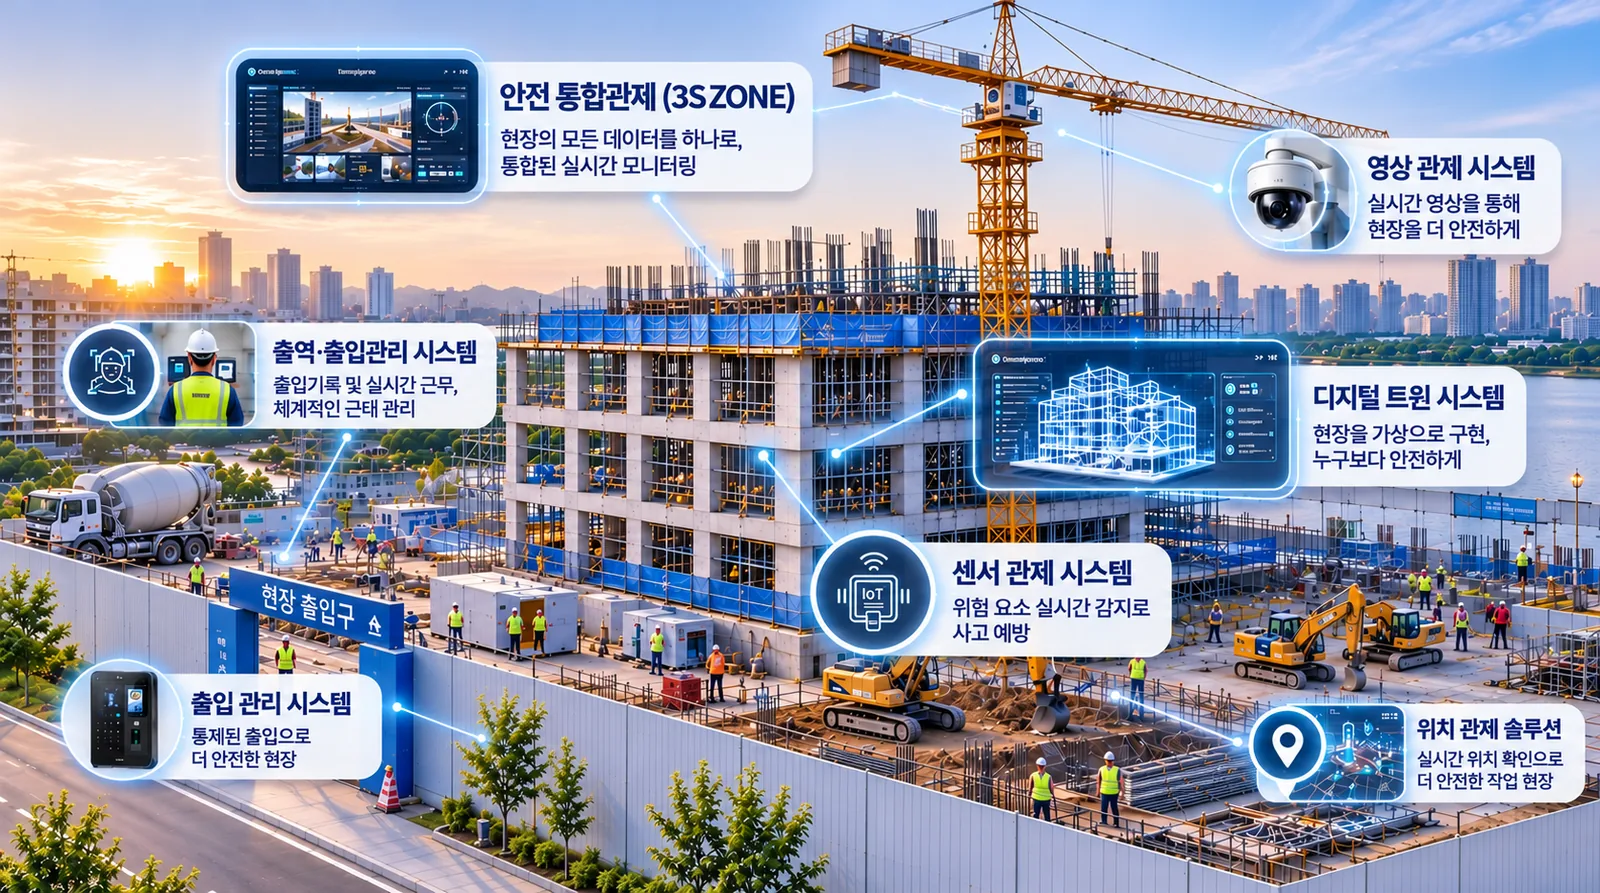
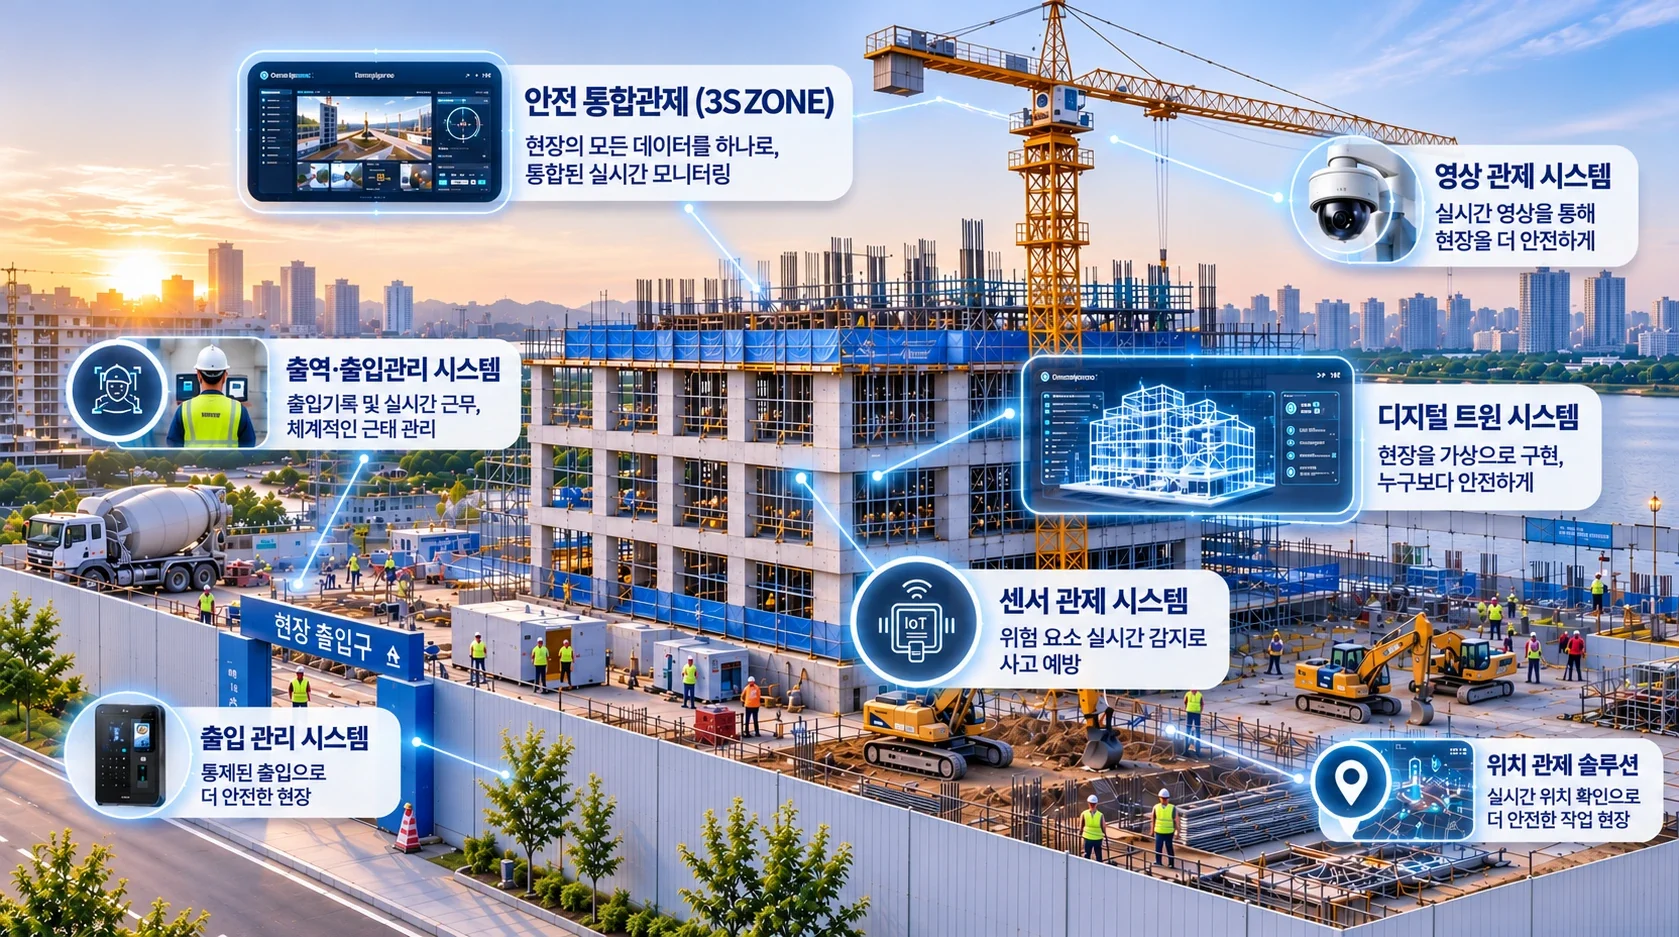
V2 하위 페이지: 소개 사진 크기 통일, 원본 교체, 표·그래프 HTML 재제작
- 소개 사진 폭 최대 660px·16:9 로 전 페이지 통일(3SZONE 은 1.2배)
- 회사소개 현장 그림·하단 배너·다섯 가지 이유 배경을 원본으로 교체
- 3SZONE 소개 제목·본문·도입 효과 제목을 다른 페이지 규칙에 맞춤
- 건설공정 차트·AI 이벤트 감지 항목·AI 위험 이름을 HTML 로 다시 제작
- 해상도 낮은 사진 3장 '고화질필요', 사진 없는 카드 '사진필요' 표시

diff --git a/css/sub-v2.css b/css/sub-v2.css
@@ -4,10 +4,11 @@
 .sv img{display:block;max-width:100%}
 
 /* 소개: 왼쪽 글, 오른쪽 사진 */
-.sv-intro{display:grid;grid-template-columns:minmax(0,1fr) minmax(0,1.25fr);gap:64px;align-items:center}
+/* 소개 사진 크기는 모든 하위 페이지(3SZONE V2 포함) 같게: 폭 최대 660px, 16:9 */
+.sv-intro{display:grid;grid-template-columns:minmax(0,1fr) min(660px,48%);gap:64px;align-items:center}
 .sv-intro h3{font-size:clamp(24px,2vw,30px);line-height:1.4;letter-spacing:-.025em;margin-bottom:22px}
 .sv-intro p{font-size:16px;line-height:1.85;color:#333}
-.sv-intro img{width:100%;border-radius:12px}
+.sv-intro>img,.sv-intro>figure{width:100%;aspect-ratio:16/9;border-radius:12px;object-fit:cover;margin:0}
 
 /* 소제목: 아래 파란 줄 */
 .sv-sec{margin-top:110px}
@@ -29,7 +30,11 @@
 .sv-prod li{width:calc((100% - 60px) / 4);padding:10px 10px 24px;border:1px solid #e6e8ec;border-radius:16px;background:#fff;
   box-shadow:0 6px 18px rgba(17,17,17,.04)}
 .sv-ph{aspect-ratio:187/169;border-radius:14px;overflow:hidden;background:#e9edf2}
+.sv-ph{position:relative;display:grid;place-items:center}
 .sv-ph img{width:100%;height:100%;object-fit:cover}
+/* 사진이 없는 칸 / 화질이 낮은 사진 표시 */
+.sv-ph:empty::after,.sv-ph.lq::after{content:'사진필요';font-size:15px;font-weight:800;letter-spacing:-.01em;color:#8a94a6}
+.sv-ph.lq::after{content:'고화질필요';position:absolute;inset:0;display:grid;place-items:center;color:#fff;background:rgba(18,25,42,.62)}
 .sv-prod li>div{padding:18px 12px 0}
 .sv-prod small{display:block;font-size:12.5px;font-weight:800;color:var(--blue);margin-bottom:4px}
 .sv-prod b{display:block;font-size:18px;font-weight:800;letter-spacing:-.02em}
@@ -93,12 +98,46 @@
 .ai-risk h3{font-size:clamp(24px,2.2vw,32px);letter-spacing:-.025em;margin-bottom:44px}
 .ai-risk h3 em{font-style:normal;color:#1f7ae0}
 .ai-risk ul{display:grid;grid-template-columns:repeat(6,minmax(0,1fr));gap:8px;max-width:1080px;margin:0 auto}
-.ai-risk img{width:100%;aspect-ratio:.6;object-fit:cover;object-position:left top}
+.ai-risk li>img{width:100%;aspect-ratio:166/212;object-fit:cover}
+.ai-risk li>span{display:flex;align-items:center;gap:8px;margin-top:14px;font-size:15px;font-weight:800;letter-spacing:-.02em;text-align:left}
+.ai-risk li>span img{width:26px;height:auto}
 .ai-event{display:grid;justify-items:center;gap:28px}
-.ai-event>img{width:min(100%,760px);border-radius:12px}
-.ai-event .sv-flow{width:min(100%,760px)}
+.ai-event>*{width:min(100%,900px)}
+.ai-det{position:relative;display:grid;grid-template-columns:minmax(0,1fr) 30%;overflow:hidden;border-radius:16px;
+  background:linear-gradient(120deg,#f6f9fd 0%,#e8f0fa 100%)}
+.ai-det>div{padding:44px 32px 44px 44px}
+.ai-det small{display:block;font-size:12px;font-weight:800;letter-spacing:.14em;color:#1f6fd1;margin-bottom:10px}
+.ai-det h3{font-size:clamp(24px,2.2vw,32px);letter-spacing:-.025em}
+.ai-det h3 em{font-style:normal;color:#1f6fd1}
+.ai-det p{font-size:15px;color:#555;margin:8px 0 26px}
+.ai-det ul{display:grid;gap:10px}
+.ai-det li{display:grid;grid-template-columns:44px 92px minmax(0,1fr);align-items:center;gap:14px;padding:12px 18px;border-radius:12px;
+  background:rgba(255,255,255,.85);box-shadow:0 4px 14px rgba(31,111,209,.06)}
+.ai-det li>span{display:grid;place-items:center;width:44px;height:44px;border-radius:50%;background:#e8f0fa;color:#1f6fd1}
+.ai-det li>span .ico{width:22px;height:22px}
+.ai-det li>b{font-size:15px;font-weight:800;padding-left:14px;border-left:1px solid #d5dce6}
+.ai-det li>i{font-style:normal;display:flex;flex-wrap:wrap;gap:6px}
+.ai-det li>i em{font-style:normal;font-size:13px;font-weight:600;padding:4px 12px;border-radius:999px;background:#eef2f7;color:#333}
+.ai-det>img{width:100%;height:100%;object-fit:cover;object-position:left center}
 
 /* ---------- 건설공정 ---------- */
+.pr-chart{display:flex;flex-direction:column;justify-content:center;padding:26px 28px;border:1px solid #e3e6ea;border-radius:12px;background:#fff}
+.pr-chart b{font-size:15px;font-weight:800;margin-bottom:14px}
+.pr-grid{display:grid;grid-template-columns:52px minmax(0,1fr);row-gap:14px;font-size:14px;font-weight:800}
+.pr-weeks{display:grid;grid-template-columns:repeat(8,1fr);text-align:center;font-size:12px;font-weight:600;color:#8a94a6}
+.pr-track{position:relative;height:22px}
+.pr-track i{position:absolute;left:calc(var(--s) / 8 * 100%);width:calc((var(--e) - var(--s)) / 8 * 100%);height:7px;border-radius:9px;background:#d7dde6;top:2px}
+.pr-track i+i{top:12px;background:#12192A}
+.pr-track i.late{background:#f0a83a}
+.pr-track em{position:absolute;left:calc(var(--x) / 8 * 100%);top:-3px;transform:translateX(-100%);font-style:normal;font-size:11.5px;font-weight:800;
+  padding:2px 9px;border-radius:999px;background:#f0a83a;color:#12192A}
+.pr-today{position:absolute;left:calc(52px + (100% - 52px) * 4.8 / 8);top:0;bottom:0;border-left:1.5px dashed #e0474c}
+.pr-body{position:relative}
+.pr-legend{display:flex;gap:22px;margin-top:18px;font-size:13px;color:#666}
+.pr-legend span{display:inline-flex;align-items:center;gap:7px}
+.pr-legend span::before{content:'';width:16px;height:6px;border-radius:9px;background:#d7dde6}
+.pr-legend span:nth-child(2)::before{background:#12192A}
+.pr-legend span:nth-child(3)::before{width:18px;height:0;border-top:1.5px dashed #e0474c;background:none}
 .pr-wrap{display:grid;grid-template-columns:minmax(0,1fr) minmax(0,.55fr);gap:56px;align-items:start}
 .pr-key li{display:flex;align-items:center;gap:18px;padding:14px 20px;margin-bottom:14px;border-radius:12px;
   background:#12192A;color:#fff;font-size:16.5px;font-weight:800}
@@ -132,6 +171,9 @@
   .pr-wrap,.lc-flow{grid-template-columns:1fr}
   .lc-flow>.ico{transform:rotate(90deg);margin:0}
   .ai-risk ul{grid-template-columns:repeat(3,minmax(0,1fr));row-gap:20px}
+  .ai-det{grid-template-columns:1fr}
+  .ai-det>img{display:none}
+  .ai-det>div{padding:32px 24px}
 }
 @media (max-width:560px){
   .sv{padding-top:44px}
@@ -168,4 +210,12 @@
   .ai-risk h3{font-size:22px;margin-bottom:28px}
   .sv-step-h b{font-size:20px}
   .lc-flow figcaption{font-size:14.5px;padding:16px 18px}
+  .ai-det li{grid-template-columns:36px minmax(0,1fr);gap:10px;padding:12px}
+  .ai-det li>span{width:36px;height:36px}
+  .ai-det li>b{border:0;padding:0}
+  .ai-det li>i{grid-column:1/-1}
+  .pr-chart{padding:20px 16px}
+  .pr-grid{grid-template-columns:40px minmax(0,1fr)}
+  .pr-today{left:calc(40px + (100% - 40px) * 4.8 / 8)}
+  .ai-risk li>span{font-size:13.5px}
 }

diff --git a/system-ai-v2.html b/system-ai-v2.html
@@ -7,7 +7,7 @@
 <title>AI 솔루션 | (주)와이씨앤 — 시안 V2</title>
 <link rel="stylesheet" href="https://cdn.jsdelivr.net/gh/orioncactus/pretendard@v1.3.9/dist/web/static/pretendard.min.css">
 <link rel="stylesheet" href="css/style.css?v=202610301509">
-<link rel="stylesheet" href="css/sub-v2.css?v=202611271">
+<link rel="stylesheet" href="css/sub-v2.css?v=202611272">
 </head>
 <body>
 
@@ -41,16 +41,29 @@
   <section class="sv-sec ai-risk">
     <h3>작업 현장의 모든 위험, <em>AI</em>가 지켜보고 있습니다.</h3>
     <ul>
-      <li><img src="images/sub/ai-risk1.webp" alt="위험구역 침입" loading="lazy"></li>
-      <li><img src="images/sub/ai-risk2.webp" alt="불꽃 · 연기 감지" loading="lazy"></li>
-      <li><img src="images/sub/ai-risk3.webp" alt="안전모 미착용" loading="lazy"></li>
-      <li><img src="images/sub/ai-risk4.webp" alt="안전고리 미체결" loading="lazy"></li>
-      <li><img src="images/sub/ai-risk5.webp" alt="중장비 접근 위험" loading="lazy"></li>
-      <li><img src="images/sub/ai-risk6.webp" alt="작업자 쓰러짐 · SOS" loading="lazy"></li>
+      <li><img src="images/sub/ai-risk1.webp" alt="" loading="lazy"><span><img src="images/sub/ai-risk1-ic.png" alt="">위험구역 침입</span></li>
+      <li><img src="images/sub/ai-risk2.webp" alt="" loading="lazy"><span><img src="images/sub/ai-risk2-ic.png" alt="">불꽃 · 연기 감지</span></li>
+      <li><img src="images/sub/ai-risk3.webp" alt="" loading="lazy"><span><img src="images/sub/ai-risk3-ic.png" alt="">안전모 미착용</span></li>
+      <li><img src="images/sub/ai-risk4.webp" alt="" loading="lazy"><span><img src="images/sub/ai-risk4-ic.png" alt="">안전고리 미체결</span></li>
+      <li><img src="images/sub/ai-risk5.webp" alt="" loading="lazy"><span><img src="images/sub/ai-risk5-ic.png" alt="">중장비 접근 위험</span></li>
+      <li><img src="images/sub/ai-risk6.webp" alt="" loading="lazy"><span><img src="images/sub/ai-risk6-ic.png" alt="">작업자 쓰러짐 · SOS</span></li>
     </ul>
   </section>
   <section class="sv-sec ai-event">
-    <img src="images/sub/ai-event.webp" alt="AI 이벤트 감지 항목 — 사람·차량: 군집, 배회, 쓰러짐, 침입(사람), 침입(사람+차량), 침입(차량), 불법주정차 / 화재·재난: 불꽃, 연기, 침수, 침입(청소지역) / 안전수칙: 안전모 미착용, 안전고리 미체결, 중장비 접근 / 기타: SOS, 쓰레기 무단투기, 여성안심(화장실)" loading="lazy">
+    <div class="ai-det">
+      <div>
+        <small>AI EVENT DETECTION</small>
+        <h3><em>AI</em> 이벤트 감지 항목</h3>
+        <p>다양한 이벤트를 실시간으로 감지하고, 안전한 현장을 만들어갑니다.</p>
+        <ul>
+          <li><span><svg class="ico"><use href="images/sub-icons.svg#i-users"/></svg></span><b>사람 · 차량</b><i><em>군집</em><em>배회</em><em>쓰러짐</em><em>침입(사람)</em><em>침입(사람+차량)</em><em>침입(차량)</em><em>불법주정차</em></i></li>
+          <li><span><svg class="ico"><use href="images/sub-icons.svg#i-flame"/></svg></span><b>화재 · 재난</b><i><em>불꽃</em><em>연기</em><em>침수</em><em>침입(청소지역)</em></i></li>
+          <li><span><svg class="ico"><use href="images/sub-icons.svg#i-helmet"/></svg></span><b>안전수칙</b><i><em>안전모 미착용</em><em>안전고리 미체결</em><em>중장비 접근</em></i></li>
+          <li><span><svg class="ico"><use href="images/sub-icons.svg#i-bell"/></svg></span><b>기타</b><i><em>SOS</em><em>쓰레기 무단투기</em><em>여성안심(화장실)</em></i></li>
+        </ul>
+      </div>
+      <img src="images/sub/ai-event-cam.webp" alt="" loading="lazy">
+    </div>
     <ul class="sv-flow soft">
       <li><div class="sv-step-h"><span class="sv-ic"><svg class="ico"><use href="images/sub-icons.svg#i-search"/></svg></span><small>STEP 01</small></div><h4>이벤트 감지 · 분석</h4><p>AI가 CCTV 영상에서 <br>위험 상황을 찾아냅니다.</p></li>
       <li><div class="sv-step-h"><span class="sv-ic"><svg class="ico"><use href="images/sub-icons.svg#i-bell"/></svg></span><small>STEP 02</small></div><h4>이벤트 발생 알림</h4><p>감지 즉시 관제 화면과 <br>모바일로 알림을 보냅니다.</p></li>

diff --git a/system-video-v2.html b/system-video-v2.html
@@ -7,7 +7,7 @@
 <title>스마트 영상관제 시스템 | (주)와이씨앤 — 시안 V2</title>
 <link rel="stylesheet" href="https://cdn.jsdelivr.net/gh/orioncactus/pretendard@v1.3.9/dist/web/static/pretendard.min.css">
 <link rel="stylesheet" href="css/style.css?v=202610301509">
-<link rel="stylesheet" href="css/sub-v2.css?v=202611271">
+<link rel="stylesheet" href="css/sub-v2.css?v=202611272">
 </head>
 <body>
 
@@ -45,7 +45,7 @@
       <li><div class="sv-ph"><img src="images/sub/vid-ptz.webp" alt="PTZ CCTV" loading="lazy"></div><div><small>타워 CCTV</small><b>PTZ CCTV</b><p>타워크레인에 설치해 현장 전체를 조망하고, 확대 기능으로 먼 거리의 작업 상황까지 확인합니다.</p></div></li>
       <li><div class="sv-ph"><img src="images/sub/vid-hoist.webp" alt="호이스트 CCTV (무전기 포함)" loading="lazy"></div><div><small>호이스트 CCTV</small><b>호이스트 CCTV (무전기 포함)</b><p>호이스트 운전자와 무전으로 소통하며 운행 상황을 영상으로 확인합니다.</p></div></li>
       <li><div class="sv-ph"><img src="images/sub/vid-lift.webp" alt="리프트 상부 CCTV" loading="lazy"></div><div><small>호이스트 CCTV</small><b>리프트 상부 CCTV</b><p>광각 영상으로 리프트 상부 작업 상황을 감시합니다.</p></div></li>
-      <li><div class="sv-ph"><img src="images/sub/vid-hoist-in.webp" alt="호이스트 내부 CCTV" loading="lazy"></div><div><small>호이스트 CCTV</small><b>호이스트 내부 CCTV</b><p>호이스트 내부 탑승 상황을 영상으로 확인합니다.</p></div></li>
+      <li><div class="sv-ph lq"><img src="images/sub/vid-hoist-in.webp" alt="호이스트 내부 CCTV" loading="lazy"></div><div><small>호이스트 CCTV</small><b>호이스트 내부 CCTV</b><p>호이스트 내부 탑승 상황을 영상으로 확인합니다.</p></div></li>
       <li><div class="sv-ph"><img src="images/sub/vid-rot.webp" alt="회전형 PTZ CCTV" loading="lazy"></div><div><small>휀스 CCTV</small><b>회전형 PTZ CCTV</b><p>회전과 확대로 넓은 현장 외곽을 효율적으로 감시합니다.</p></div></li>
       <li><div class="sv-ph"><img src="images/sub/vid-bullet.webp" alt="고정형 PTZ BULLET CCTV" loading="lazy"></div><div><small>휀스 CCTV</small><b>고정형 PTZ BULLET CCTV</b><p>출입구와 주요 지점을 지속적으로 감시합니다.</p></div></li>
       <li><div class="sv-ph"><img src="images/sub/vid-ev.webp" alt="E/V CCTV" loading="lazy"></div><div><small>E/V CCTV</small><b>E/V CCTV</b><p>상시 확인하기 어려운 사각지대를 감시해 추락사고를 예방합니다.</p></div></li>

diff --git a/system-attendance-v2.html b/system-attendance-v2.html
@@ -7,7 +7,7 @@
 <title>스마트 출역관리 시스템 | (주)와이씨앤 — 시안 V2</title>
 <link rel="stylesheet" href="https://cdn.jsdelivr.net/gh/orioncactus/pretendard@v1.3.9/dist/web/static/pretendard.min.css">
 <link rel="stylesheet" href="css/style.css?v=202610301509">
-<link rel="stylesheet" href="css/sub-v2.css?v=202611271">
+<link rel="stylesheet" href="css/sub-v2.css?v=202611272">
 </head>
 <body>
 
@@ -44,7 +44,7 @@
     <span class="sv-grp">출입 인식기</span>
     <ul class="sv-prod c">
       <li><div class="sv-ph"><img src="images/sub/att-face.webp" alt="안면 인식기" loading="lazy"></div><div><b>안면 인식기</b><p>비접촉 얼굴 인식으로 신속하게 출입을 인증하고 사진 등 위조 얼굴을 식별합니다.</p></div></li>
-      <li><div class="sv-ph"><img src="images/sub/att-iris.webp" alt="홍채 인식기" loading="lazy"></div><div><b>홍채 인식기</b><p>높은 정확도의 홍채 인증으로 대규모 인원이 출입하는 현장에 적합하며, 위조 홍채를 감지합니다.</p></div></li>
+      <li><div class="sv-ph lq"><img src="images/sub/att-iris.webp" alt="홍채 인식기" loading="lazy"></div><div><b>홍채 인식기</b><p>높은 정확도의 홍채 인증으로 대규모 인원이 출입하는 현장에 적합하며, 위조 홍채를 감지합니다.</p></div></li>
     </ul>
     <span class="sv-grp">출입 게이트</span>
     <ul class="sv-prod c">
@@ -56,7 +56,7 @@
     <ul class="sv-prod c">
       <li><div class="sv-ph"><img src="images/sub/att-c33.webp" alt="3X3 컨테이너" loading="lazy"></div><div><b>3X3 컨테이너</b><p>외부 색상과 내부 마감은 옵션으로 제공합니다.</p></div></li>
       <li><div class="sv-ph"><img src="images/sub/att-c36.webp" alt="3X6 컨테이너" loading="lazy"></div><div><b>3X6 컨테이너</b><p>외부 색상과 내부 마감은 옵션으로 제공합니다.</p></div></li>
-      <li><div class="sv-ph"><img src="images/sub/att-c39.webp" alt="3X9 컨테이너" loading="lazy"></div><div><b>3X9 컨테이너</b><p>외부 색상과 내부 마감은 옵션으로 제공합니다.</p></div></li>
+      <li><div class="sv-ph lq"><img src="images/sub/att-c39.webp" alt="3X9 컨테이너" loading="lazy"></div><div><b>3X9 컨테이너</b><p>외부 색상과 내부 마감은 옵션으로 제공합니다.</p></div></li>
     </ul>
     <span class="sv-grp">퇴직 공제 단말기</span>
     <ul class="sv-prod c">

diff --git a/system-process-v2.html b/system-process-v2.html
@@ -7,7 +7,7 @@
 <title>건설공정 관리 시스템 | (주)와이씨앤 — 시안 V2</title>
 <link rel="stylesheet" href="https://cdn.jsdelivr.net/gh/orioncactus/pretendard@v1.3.9/dist/web/static/pretendard.min.css">
 <link rel="stylesheet" href="css/style.css?v=202610301509">
-<link rel="stylesheet" href="css/sub-v2.css?v=202611271">
+<link rel="stylesheet" href="css/sub-v2.css?v=202611272">
 </head>
 <body>
 
@@ -27,7 +27,20 @@
   <div class="sub-head"><span class="kicker">Construction Process Management</span><h2>건설공정 관리 시스템</h2></div>
   <div class="sv-intro">
     <div><h3>3D 공정 시각화, <br>계획부터 안전까지 한 번에 관리합니다</h3><p>디지털 트윈 기반 3D 현장에서 공정 진행 현황을 실시간으로 모니터링하고, <br>계획 대비 실제 공정을 분석합니다. <br>현장 데이터를 연계해 공정 지연과 작업 동선의 위험 요소를 사전에 예측하고, <br>효율적인 공정 운영과 안전관리를 지원합니다.</p></div>
-    <img src="images/sub/proc-gantt.webp" alt="공정 현황 · 계획 대비 실적 차트 — 토공, 골조(지연), 설비, 마감의 주차별 계획과 실적">
+    <figure class="pr-chart" aria-label="공정 현황 · 계획 대비 실적 차트">
+      <b>공정 현황 · 계획 대비 실적</b>
+      <div class="pr-body">
+        <div class="pr-grid">
+          <span></span><div class="pr-weeks"><span>W1</span><span>W2</span><span>W3</span><span>W4</span><span>W5</span><span>W6</span><span>W7</span><span>W8</span></div>
+          <span>토공</span><div class="pr-track"><i style="--s:0;--e:2.4"></i><i style="--s:0;--e:2.4"></i></div>
+          <span>골조</span><div class="pr-track"><i style="--s:1.6;--e:4.8"></i><i class="late" style="--s:2;--e:4"></i><em style="--x:4.8">지연</em></div>
+          <span>설비</span><div class="pr-track"><i style="--s:3.6;--e:6.4"></i><i style="--s:4;--e:5"></i></div>
+          <span>마감</span><div class="pr-track"><i style="--s:5.2;--e:8"></i></div>
+        </div>
+        <span class="pr-today"></span>
+      </div>
+      <div class="pr-legend"><span>계획</span><span>실적</span><span>오늘</span></div>
+    </figure>
   </div>
   <section class="sv-sec">
     <h3 class="sv-h">도입 효과</h3>

diff --git a/css/v4.css b/css/v4.css
@@ -181,6 +181,14 @@
 .s3-v2 .s3-txt .s3-split-h b{color:#fff}
 .s3-banner{padding-bottom:110px}
 .s3-banner img{display:block;width:100%}
+/* 하위 페이지 V2 와 같은 규칙: 소개 사진 폭 최대 660px·16:9(기존보다 1.2배), 제목·본문 크기, 소제목 왼쪽 밑줄 */
+@media (min-width:1025px){.s3-v2 .s3-split,.s3-v2 .s3-split:has(.s3-split-h){max-width:var(--wrap);grid-template-columns:minmax(0,1fr) min(660px,48%);gap:64px}}
+.s3-v2 .s3-card{aspect-ratio:16/9;overflow:hidden}
+.s3-v2 .s3-card .ph{height:100%;object-fit:cover}
+.s3-v2 .s3-txt .s3-split-h{font-size:clamp(24px,2vw,30px);line-height:1.4;letter-spacing:-.025em;margin-bottom:22px}
+.s3-v2 .s3-txt p{font-size:16px;line-height:1.85}
+.s3-v2 .v4-eff .s3-grid-h{display:inline-block;text-align:left;font-size:24px;letter-spacing:-.02em;padding-bottom:8px;border-bottom:2px solid #4a9eff;margin-bottom:32px}
+.s3-v2 .v4-eff .s3-num{font-size:14px;margin-bottom:14px}
 
 /* ---------- 반응형 ---------- */
 @media (max-width:1190px){

diff --git a/3szone-v2.html b/3szone-v2.html
@@ -7,7 +7,7 @@
 <title>안전 통합관제 플랫폼 | (주)와이씨앤 — 시안 V2</title>
 <link rel="stylesheet" href="https://cdn.jsdelivr.net/gh/orioncactus/pretendard@v1.3.9/dist/web/static/pretendard.min.css">
 <link rel="stylesheet" href="css/style.css?v=202610301509">
-<link rel="stylesheet" href="css/v4.css?v=202611271">
+<link rel="stylesheet" href="css/v4.css?v=202611272">
 </head>
 <body class="s3-page s3-v2">
 

diff --git a/system-sensor-v2.html b/system-sensor-v2.html
@@ -7,7 +7,7 @@
 <title>스마트 센서관제 시스템 | (주)와이씨앤 — 시안 V2</title>
 <link rel="stylesheet" href="https://cdn.jsdelivr.net/gh/orioncactus/pretendard@v1.3.9/dist/web/static/pretendard.min.css">
 <link rel="stylesheet" href="css/style.css?v=202610301509">
-<link rel="stylesheet" href="css/sub-v2.css?v=202611271">
+<link rel="stylesheet" href="css/sub-v2.css?v=202611272">
 </head>
 <body>
 

diff --git a/system-twin-v2.html b/system-twin-v2.html
@@ -7,7 +7,7 @@
 <title>디지털 트윈 시스템 | (주)와이씨앤 — 시안 V2</title>
 <link rel="stylesheet" href="https://cdn.jsdelivr.net/gh/orioncactus/pretendard@v1.3.9/dist/web/static/pretendard.min.css">
 <link rel="stylesheet" href="css/style.css?v=202610301509">
-<link rel="stylesheet" href="css/sub-v2.css?v=202611271">
+<link rel="stylesheet" href="css/sub-v2.css?v=202611272">
 </head>
 <body>
 

diff --git a/system-location-v2.html b/system-location-v2.html
@@ -7,7 +7,7 @@
 <title>위치 관제 시스템 | (주)와이씨앤 — 시안 V2</title>
 <link rel="stylesheet" href="https://cdn.jsdelivr.net/gh/orioncactus/pretendard@v1.3.9/dist/web/static/pretendard.min.css">
 <link rel="stylesheet" href="css/style.css?v=202610301509">
-<link rel="stylesheet" href="css/sub-v2.css?v=202611271">
+<link rel="stylesheet" href="css/sub-v2.css?v=202611272">
 </head>
 <body>
 

diff --git a/about-v2.html b/about-v2.html
@@ -7,7 +7,7 @@
 <title>회사소개 | (주)와이씨앤 — 시안 V2</title>
 <link rel="stylesheet" href="https://cdn.jsdelivr.net/gh/orioncactus/pretendard@v1.3.9/dist/web/static/pretendard.min.css">
 <link rel="stylesheet" href="css/style.css?v=202610301509">
-<link rel="stylesheet" href="css/sub-v2.css?v=202611271">
+<link rel="stylesheet" href="css/sub-v2.css?v=202611272">
 </head>
 <body>
 
